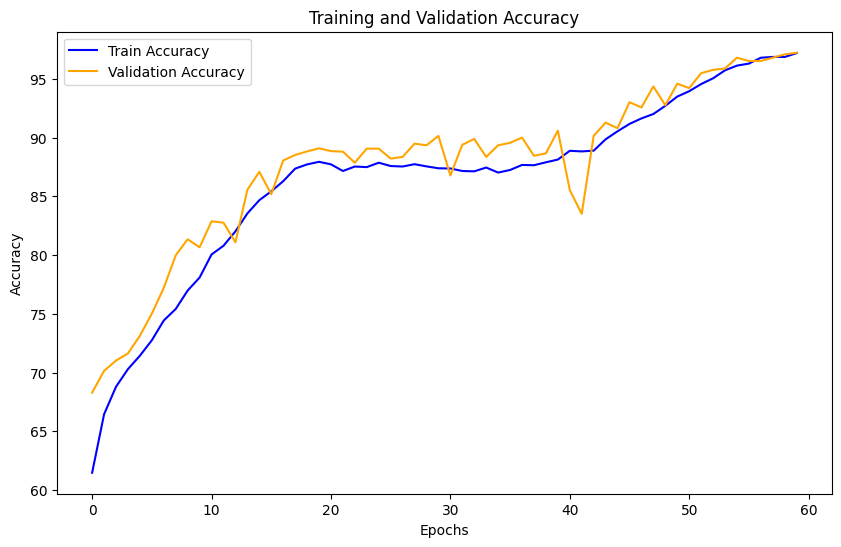
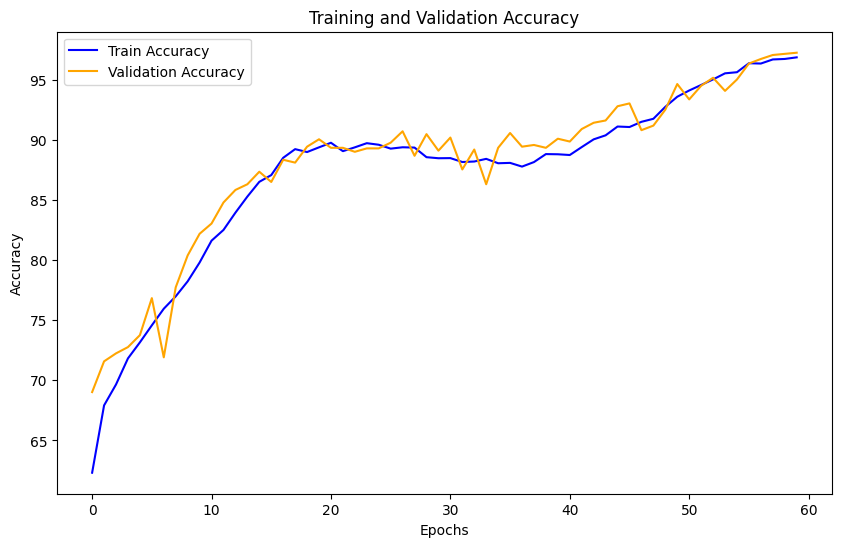
Update model params and links in README

diff --git a/recognition/vision_transformer_47147571/train.py b/recognition/vision_transformer_47147571/train.py
@@ -45,10 +45,10 @@ if __name__ == "__main__":
     
     # load the dataset
     train_dataset = ADNIDataset(root=args.data_path, split="train", transform=get_transform(train=True), 
-                                val=False, seed=0, split_ratio=0.8)
+                                val=False, seed=0, split_ratio=0.9)
     
     val_dataset = ADNIDataset(root=args.data_path, split="train", transform=get_transform(train=False), 
-                              val=True, seed=0, split_ratio=0.8)
+                              val=True, seed=0, split_ratio=0.9)
     
     train_loader = DataLoader(train_dataset, batch_size=batch_size, shuffle=True, num_workers=6, pin_memory=True)
     val_loader = DataLoader(val_dataset, batch_size=batch_size, shuffle=False, num_workers=6, pin_memory=True)

diff --git a/recognition/vision_transformer_47147571/README.md b/recognition/vision_transformer_47147571/README.md
@@ -1,6 +1,6 @@
 # Alzheimer's Disease Classification using GFNet
 
-A GFNet was used to train a binary classifier to identify Alzheimer's disease from MRI brain scans. The [ADNI dataset](https://adni.loni.usc.edu/) was used for both training and testing of our model. We achieved a test accuracy of 80.89%, which exceeds the accuracy requirement outlined in the project specifications.
+A GFNet was used to train a binary classifier to identify Alzheimer's disease from MRI brain scans. The [ADNI dataset](https://adni.loni.usc.edu/) was used for both training and testing of our model. We achieved a test accuracy of 80.67%, which exceeds the accuracy requirement outlined in the project specifications.
 
 ## Model Architecture
 
@@ -18,7 +18,7 @@ We directly used the dataset processed and provided by the COMP3710 course. Two 
 
 ### Data Preprocessing
 
-We observed that the brain in the MRI scan images is not centered, and different images may show variations in brain size. Furthermore, the surrounding large black background contains no useful information, making it challenging for the model to locate and learn features from the brain. Therefore, we used the `cv2` package to crop the valid region. A rectangular boundary is assigned to the valid area, which is then resized and padded to 210x210 before being saved to the `AD_processed` or `NC_processed` folders. We chose 210x210 because no image in the dataset exceeds this size in terms of valid region, and our implementation supports downsampling to ensure the robustness of our code and its ability to process images of any size.
+We observed slight variations in brain size across different MRI scan images. Furthermore, the surrounding large black background contains no useful information, making it challenging for the model to locate and learn features from the brain. Therefore, we used the `cv2` package to crop the valid region. A rectangular boundary is assigned to the valid area, which is then resized and padded to 210x210 before being saved to the `AD_processed` or `NC_processed` folders. We chose 210x210 because no image in the dataset exceeds this size in terms of valid region, and our implementation supports downsampling to ensure the robustness of our code and its ability to process images of any size.
 
 <div style="display: flex; justify-content: center; gap: 10px;">
   <div style="text-align: center;">
@@ -38,7 +38,7 @@ This data preprocessing is handled automatically by our dataset classes. *Please
 Two dataset classes are provided for loading the data. Both classes automatically crop the valid area in the original images and save the processed images to the `processed` folders. Both dataset classes support a `transform` parameter for applying image transformations. Additionally, the labels are assigned with AD as 1 and NC as 0.
 
 
-- **`ADNIDataset`**: This dataset loads each image as a single-channel grayscale image. The dataset splits the data into training and validation sets based on the `seed` and `split_ratio` provided. By setting `val=True`, you can load the validation set. When `seed` and `split_ratio` are fixed, the dataset provides a consistent and complementary split between the training and validation sets, ensuring all data is loaded correctly. The `split` parameter determines which subset (train or test) is being loaded. In our implementation, we used `seed=0` and `split_ratio=0.8`.
+- **`ADNIDataset`**: This dataset loads each image as a single-channel grayscale image. The dataset splits the data into training and validation sets based on the `seed` and `split_ratio` provided. By setting `val=True`, you can load the validation set. When `seed` and `split_ratio` are fixed, the dataset provides a consistent and complementary split between the training and validation sets, ensuring all data is loaded correctly. The `split` parameter determines which subset (train or test) is being loaded. In our implementation, we used `seed=0` and `split_ratio=0.9`.
   
 - **`ADNIDatasetTest`**: This dataset loads patient-level batches of 20 grayscale images from the same patient based on their patient ID.
 
@@ -74,7 +74,7 @@ Several techniques were used during the training phase.
 
 ## Results
 
-We provided our trained model. You can download the **model** and **tensorboard event file** from [Google Drive](https://drive.google.com/drive/folders/1RUhFyJrzHR0Rm5UYrUytsMD3Ht17Vy2N?usp=sharing). Please place the `log` folder under the `vision_transformer_47147571` directory.
+We provided our trained model. You can download the **model** and **tensorboard event file** from [Dropbox](https://www.dropbox.com/scl/fo/i683tej1l5i5yok4smnmz/ANG_mNtO6PRg-dywu7zuSUU?rlkey=3pllz6j1nrvod35u4jh08wmwp&st=coir7fak&dl=0). Please place the `logs` folder under the `vision_transformer_47147571` directory.
 
 We also visualized the training/validation accuracy and average training/validation loss per batch over the epochs below.
 
@@ -87,16 +87,16 @@ It is noticeable that the validation accuracy is almost consistently higher than
 Running `predict.py` will output the following:
 ```
 using linear droppath with expect rate 0.0
-100%|███████████████████████████████████████████████████████████████████████| 450/450 [00:19<00:00, 23.51it/s]
+100%|██████████████████████████████████████████████████████████████████████████████████████████████████████| 450/450 [00:19<00:00, 23.45it/s]
 Confusion Matrix:
 TN      FP
-213     14
+211     16
 FN      TP
-72      151
-Precision: 0.92
+71      152
+Precision: 0.90
 Recall: 0.68
 F1 Score: 0.78
-Test Accuracy: 80.89%
+Test Accuracy: 80.67%
 ```
 
 
